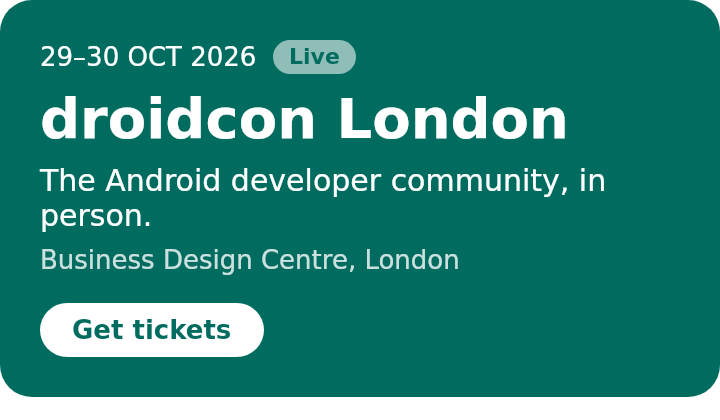
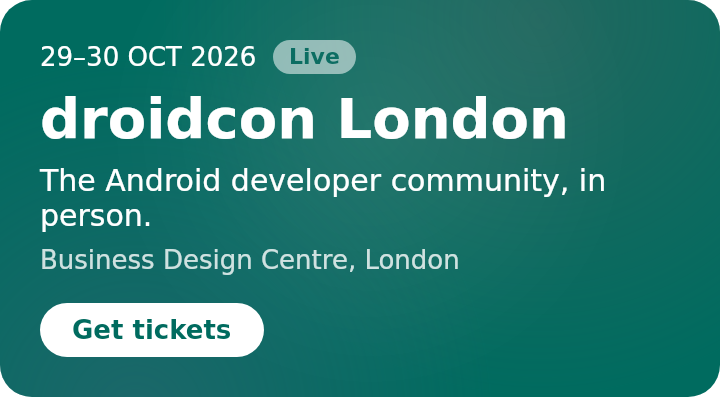
feat(livery): a slow mesh-gradient glow on the base header
Remote Compose has no custom shaders, so meshGlows() layers radial gradients over a card's
background. Each glow drifts on a slow ellipse (20-40 s) driven by the player's clock, positioned
in dp and converted with the host's density at play time. The base header gets two low-alpha
glows of the theme's secondary and tertiary roles, so it follows light, dark and dynamic colour.

Claude-Session: https://claude.ai/code/session_017xSuvobFYXdQ2QMpahMagX

Changed region(s): [[0.3667, 0.0, 0.9167, 0.619], [0.1222, 0.8976, 0.2444, 0.9595]]

diff --git a/livery-catalog/src/main/kotlin/dev/johnoreilly/confetti/livery/Common.kt b/livery-catalog/src/main/kotlin/dev/johnoreilly/confetti/livery/Common.kt
@@ -1,6 +1,11 @@
 package dev.johnoreilly.confetti.livery
 
+import androidx.compose.remote.creation.compose.capture.RemoteDensity
 import androidx.compose.remote.creation.compose.layout.RemoteBox
+import androidx.compose.remote.creation.compose.layout.RemoteOffset
+import androidx.compose.remote.creation.compose.shaders.RemoteBrush
+import androidx.compose.remote.creation.compose.shaders.radialGradient
+import androidx.compose.remote.creation.compose.state.cos
 import androidx.compose.remote.creation.compose.layout.RemoteText
 import androidx.compose.remote.creation.compose.state.RemoteTimeVariables
 import androidx.compose.remote.creation.compose.state.rs
@@ -13,6 +18,7 @@ import androidx.compose.remote.creation.compose.modifier.visibility
 import androidx.compose.remote.creation.compose.shapes.RemoteRoundedCornerShape
 import androidx.compose.remote.creation.compose.state.RemoteBoolean
 import androidx.compose.remote.creation.compose.state.RemoteColor
+import androidx.compose.remote.creation.compose.state.RemoteDp
 import androidx.compose.remote.creation.compose.state.RemoteFloat
 import androidx.compose.remote.creation.compose.state.RemoteInt
 import androidx.compose.remote.creation.compose.state.RemoteString
@@ -56,6 +62,40 @@ private const val GONE = 0
 private const val VISIBLE = 1
 
 fun RemoteBoolean.visibleIf(): RemoteInt = select(VISIBLE.ri, GONE.ri)
+
+/**
+ * One soft light in a [meshGlows] background: a radial glow of [color] fading to clear, centred
+ * at ([x], [y]) dp and orbiting that point by [drift] dp once every [periodSeconds].
+ */
+class Glow(
+    val color: RemoteColor,
+    val x: Float,
+    val y: Float,
+    val radius: Float,
+    val drift: Float = 40f,
+    val periodSeconds: Float = 30f,
+    val phase: Float = 0f,
+)
+
+/**
+ * A mesh-gradient look without a custom shader (Remote Compose has none, only linear, radial and
+ * sweep gradients): radial glows layered over the card's own background, each on a slow ellipse
+ * on the player's clock. Meant to be barely noticed: low-alpha colours and periods of 20–40 s,
+ * so it reads as a living surface, not an animation. Costs nothing on the app side.
+ */
+fun RemoteModifier.meshGlows(glows: List<Glow>): RemoteModifier = glows.fold(this) { m, g ->
+    val t = RemoteTimeVariables.continuousSeconds * (2f * Math.PI.toFloat() / g.periodSeconds) + g.phase
+    m.background(
+        RemoteBrush.radialGradient(
+            colors = listOf(g.color, g.color.copy(alpha = 0f.rf)),
+            // In dp, converted on the player: the same mesh on every screen density.
+            center = RemoteOffset(px(cos(t) * g.drift + g.x), px(sin(t) * (g.drift * 0.6f) + g.y)),
+            radius = px(g.radius.rf),
+        ),
+    )
+}
+
+private fun px(dp: RemoteFloat): RemoteFloat = RemoteDensity.Host.toPx(RemoteDp(dp))
 
 /** 0.45…1.0, once every ~1.5 s, on the player's clock: no recomposition, no re-capture. */
 fun pulse(): RemoteFloat = sin(RemoteTimeVariables.continuousSeconds * 4f) * 0.275f + 0.725f

diff --git a/livery-catalog/src/main/kotlin/dev/johnoreilly/confetti/livery/ConfettiDesigns.kt b/livery-catalog/src/main/kotlin/dev/johnoreilly/confetti/livery/ConfettiDesigns.kt
@@ -53,6 +53,12 @@ fun ConfettiHeader() {
             .fillMaxWidth()
             .clip(RemoteRoundedCornerShape(16.rdp))
             .background(c.primary)
+            // A slow mesh of the brand's other two colours under the copy.
+            .meshGlows(listOf(
+                Glow(c.secondary.copy(alpha = 0.45f.rf), x = 310f, y = 10f, radius = 190f, periodSeconds = 34f),
+                Glow(c.tertiary.copy(alpha = 0.4f.rf), x = 30f, y = 200f, radius = 180f, periodSeconds = 26f, phase = 2f),
+                Glow(c.onPrimary.copy(alpha = 0.08f.rf), x = 180f, y = 100f, radius = 130f, drift = 60f, periodSeconds = 40f, phase = 4f),
+            ))
             .padding(20.rdp),
         verticalArrangement = RemoteArrangement.spacedBy(6.rdp),
     ) {
